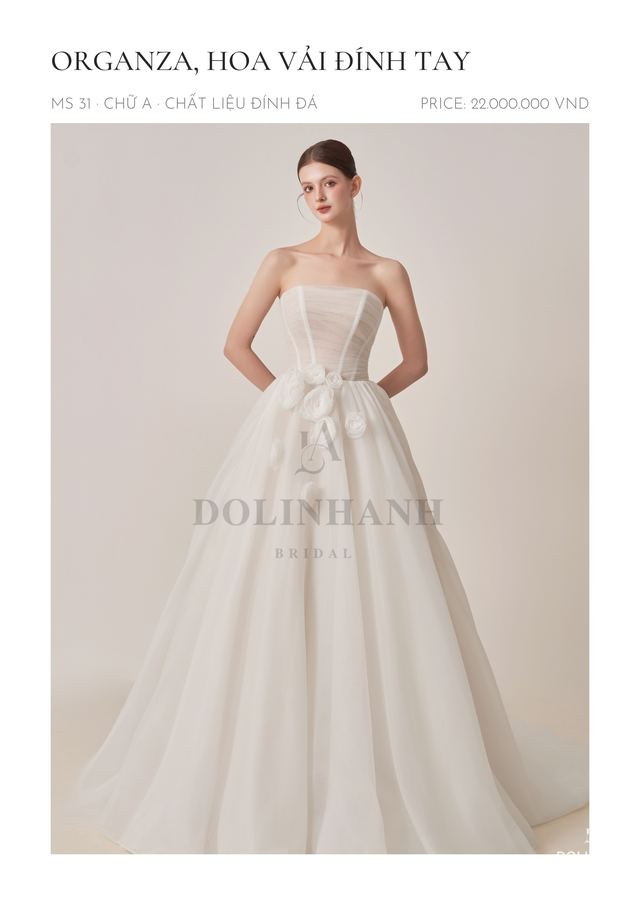
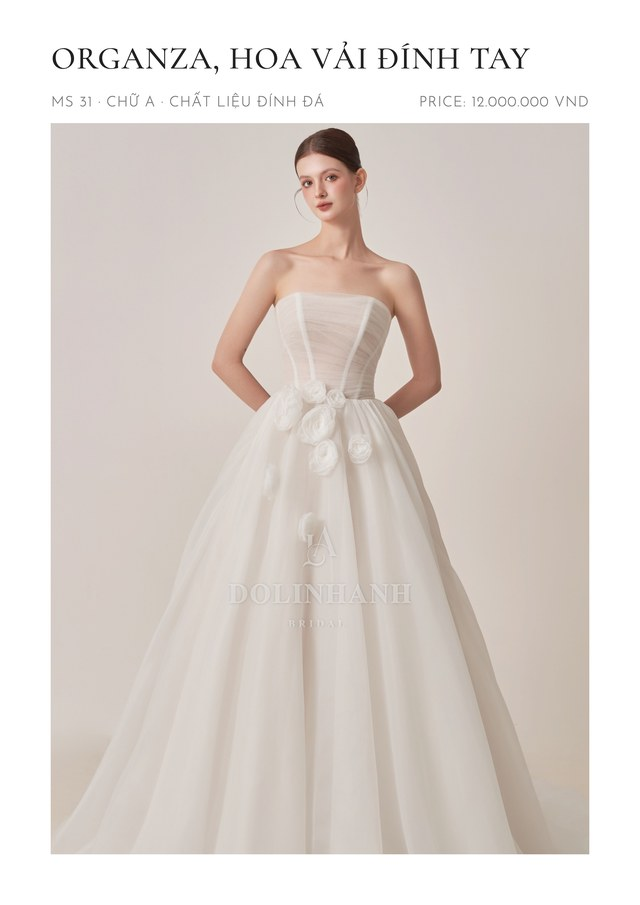
Thẻ giá MS 31: 12.000.000 (trước 22.000.000)

diff --git a/wedding-dress-prices.html b/wedding-dress-prices.html
@@ -254,7 +254,7 @@
 <a class="the" data-dang="mermaid" data-coso="hcm" href="anh/gia-tung-vay/MS554.jpg"><img src="anh/gia-tung-vay/MS554.jpg" loading="lazy" alt="MS 554"></a>
 <a class="the" data-dang="mermaid" data-coso="hcm" href="anh/gia-tung-vay/MS569.jpg"><img src="anh/gia-tung-vay/MS569.jpg" loading="lazy" alt="MS 569"></a>
 <a class="the" data-dang="a-line" data-coso="hcm" href="anh/gia-tung-vay/MS424.jpg"><img src="anh/gia-tung-vay/MS424.jpg" loading="lazy" alt="MS 424"></a>
-<a class="the" data-dang="a-line" data-coso="hn" href="anh/gia-tung-vay/MS031.jpg"><img src="anh/gia-tung-vay/MS031.jpg" loading="lazy" alt="MS 31"></a>
+<a class="the" data-dang="a-line" data-coso="hn" href="anh/gia-tung-vay/MS031.jpg?v=2"><img src="anh/gia-tung-vay/MS031.jpg?v=2" loading="lazy" alt="MS 31"></a>
 <a class="the" data-dang="a-line" data-coso="hcm" href="anh/gia-tung-vay/MS059.jpg"><img src="anh/gia-tung-vay/MS059.jpg" loading="lazy" alt="MS 59"></a>
 <a class="the" data-dang="a-line" data-coso="hcm" href="anh/gia-tung-vay/MS060.jpg"><img src="anh/gia-tung-vay/MS060.jpg" loading="lazy" alt="MS 60"></a>
 <a class="the" data-dang="a-line" data-coso="hcm" href="anh/gia-tung-vay/MS061.jpg"><img src="anh/gia-tung-vay/MS061.jpg" loading="lazy" alt="MS 61"></a>
